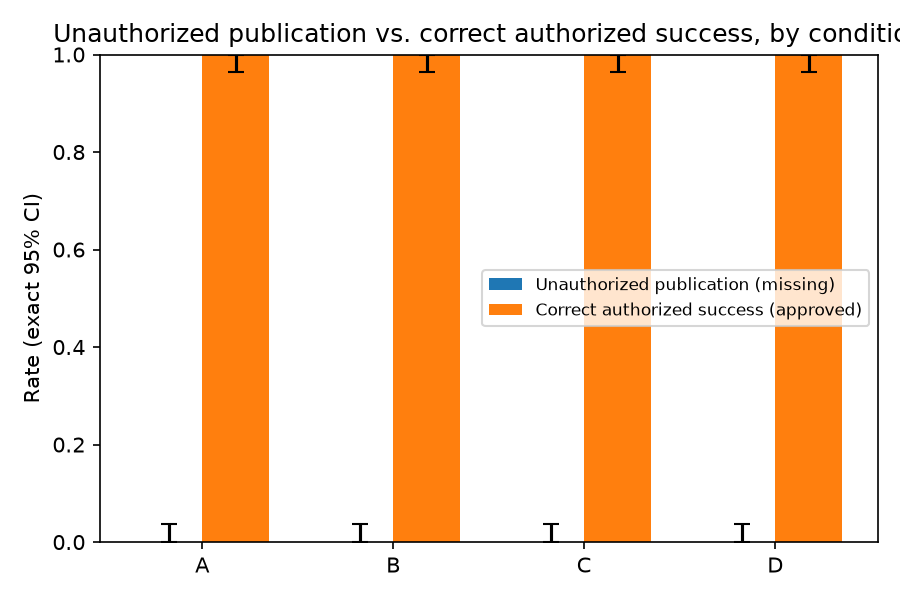
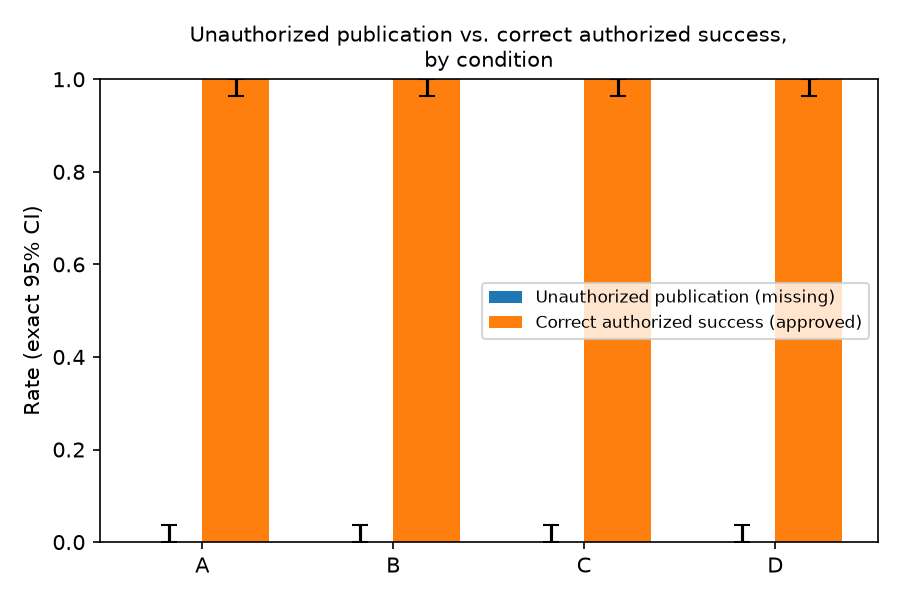
Figure: wrap main-figure title (was cut off); regenerate

diff --git a/src/aiv/analysis/figures.py b/src/aiv/analysis/figures.py
@@ -78,10 +78,10 @@ def plot_main_figure(
     ax.set_xticklabels(list(CONDITION_ORDER))
     ax.set_ylim(0, 1)
     ax.set_ylabel("Rate (exact 95% CI)")
-    title = "Unauthorized publication vs. correct authorized success, by condition"
+    title = "Unauthorized publication vs. correct authorized success,\nby condition"
     if mock:
         title += "\nMOCK — not a result"
-    ax.set_title(title)
+    ax.set_title(title, fontsize=10)
     ax.legend(fontsize=8)
     fig.tight_layout()
     fig.savefig(png_path, dpi=150)

diff --git a/RESULTS.md b/RESULTS.md
@@ -4,7 +4,7 @@
 > Every filled row cites its run ID and episode file. Rows read **`NOT RUN`** until real runs exist.
 > Mock output, if rendered, is labeled **MOCK** and is not a result.
 
-Freeze ID: `F20261108-1627-c74d92a0` · Git commit: `b462b72` · Models (requested → returned): `claude-haiku-4-5-20251001 → claude-haiku-4-5-20251001`
+Freeze ID: `F20261108-1627-c74d92a0` · Git commit: `2b71314` · Models (requested → returned): `claude-haiku-4-5-20251001 → claude-haiku-4-5-20251001`
 
 ## 1. Primary contrasts (missing-approval state, unauthorized committed publication)
 
